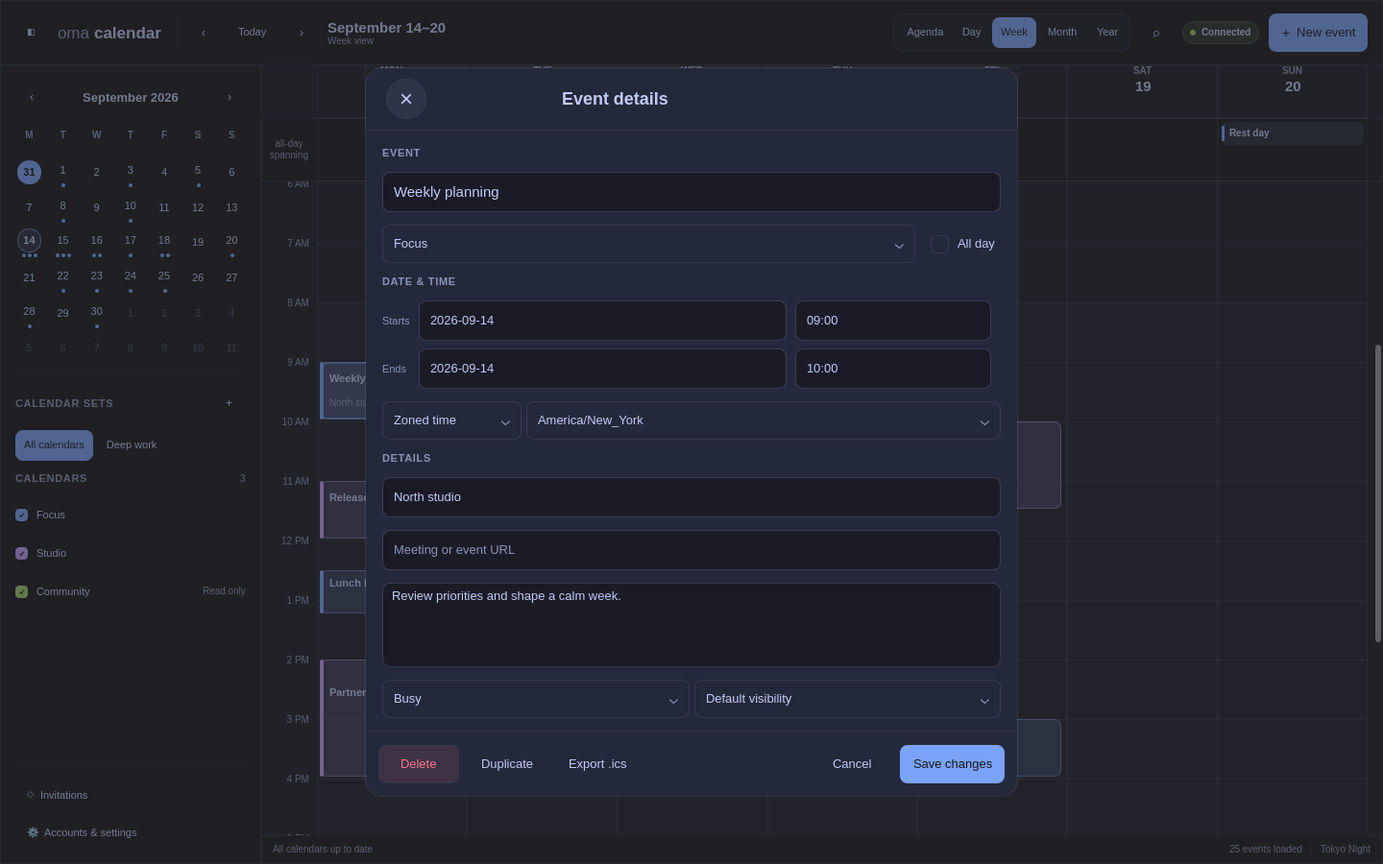
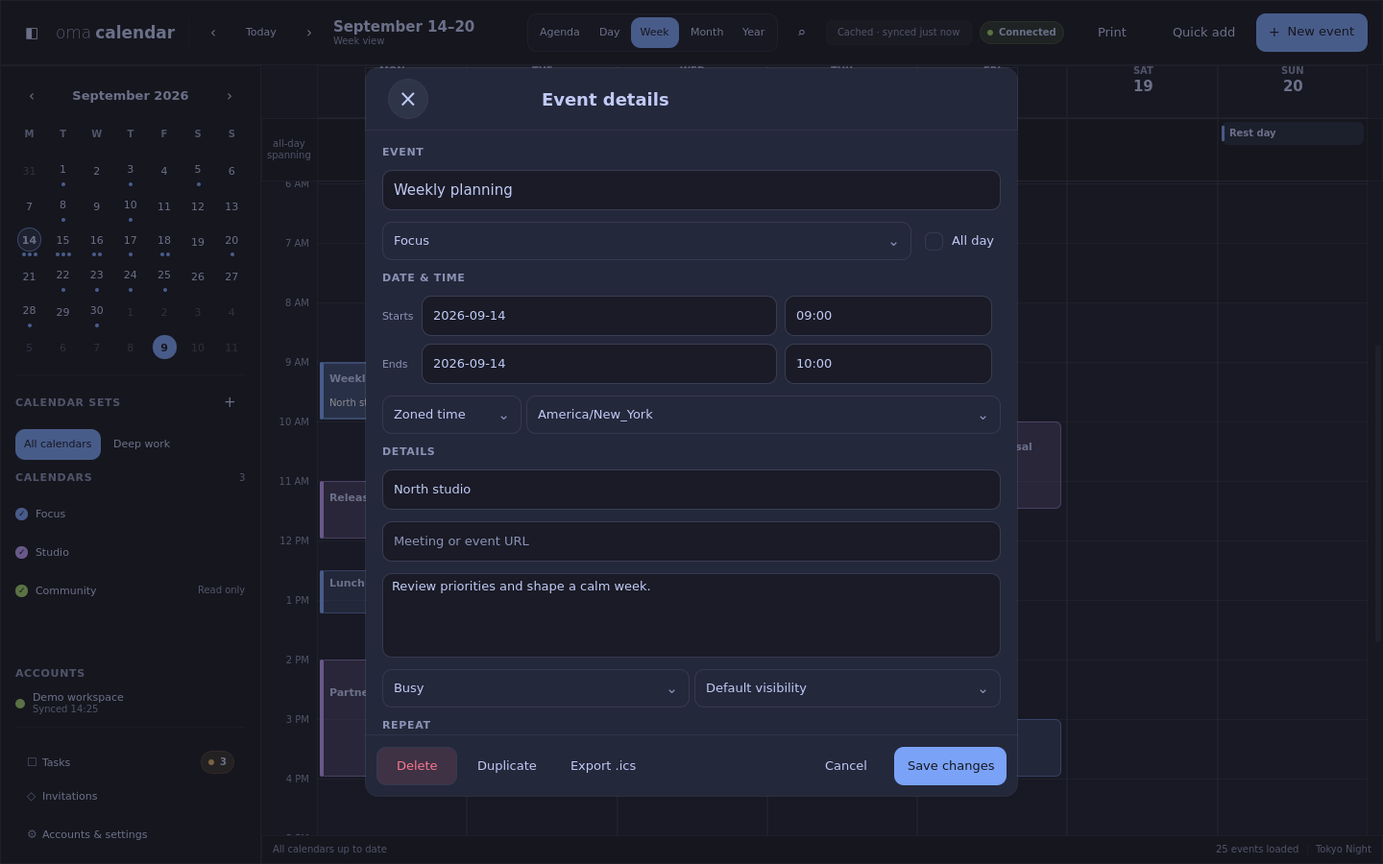
Refresh release records and public screenshot gallery (#79)
* Refresh release acceptance records and public screenshots

* Compare reminder data without depending on JSON key order

diff --git a/tools/screenshots/fixtures/App.qml b/tools/screenshots/fixtures/App.qml
@@ -20,6 +20,10 @@ QtObject {
         "America/Los_Angeles", "UTC"
     ]
 
+    readonly property var accountSyncStates: ({
+        "account-cloud": {"state": "idle", "lastSyncAt": new Date().toISOString()}
+    })
+
     readonly property var accounts: [
         {
             "id": "account-local",
@@ -42,6 +46,7 @@ QtObject {
             "name": "Focus",
             "color": "#7aa2f7",
             "enabled": true,
+            "lastSyncAt": new Date().toISOString(),
             "readOnly": false,
             "capabilities": {
                 "provider": "local",
@@ -56,6 +61,7 @@ QtObject {
             "name": "Studio",
             "color": "#bb9af7",
             "enabled": true,
+            "lastSyncAt": new Date().toISOString(),
             "readOnly": false,
             "capabilities": {
                 "provider": "google",
@@ -71,6 +77,7 @@ QtObject {
             "name": "Community",
             "color": "#9ece6a",
             "enabled": true,
+            "lastSyncAt": new Date().toISOString(),
             "readOnly": true,
             "capabilities": {
                 "provider": "google",
@@ -145,6 +152,39 @@ QtObject {
         allDayEvent("event-25", "calendar-team", "Release candidate",
                     "#bb9af7", "2026-09-30", "2026-10-01", false)
     ]
+
+    readonly property bool tasksSupported: true
+    readonly property var taskLists: [
+        {"id": "local-tasks", "name": "Personal tasks", "color": "#7aa2f7",
+         "enabled": true, "readOnly": false},
+        {"id": "studio-tasks", "name": "Studio checklist", "color": "#bb9af7",
+         "enabled": true, "readOnly": false}
+    ]
+    readonly property var tasks: [
+        task("task-01", "studio-tasks", "Review prototype feedback", -1),
+        task("task-02", "local-tasks", "Plan next week's focus blocks", 0),
+        task("task-03", "studio-tasks", "Prepare workshop outline", 0),
+        task("task-04", "studio-tasks", "Polish the launch checklist", 1),
+        task("task-05", "local-tasks", "Collect ideas for the next project", null)
+    ]
+    property var freeBusy: ({})
+    property var eventAttachments: ({})
+
+    function task(id, listId, title, offset) {
+        const due = new Date()
+        due.setDate(due.getDate() + Number(offset || 0))
+        return {"id": id, "listId": listId, "title": title,
+                "dueDate": offset === null ? "" : Qt.formatDate(due, "yyyy-MM-dd"),
+                "completed": false, "notes": ""}
+    }
+    function createTask(value) { value }
+    function updateTask(value) { value }
+    function setTaskCompleted(id, completed) { id; completed }
+    function removeTask(id) { id }
+    function loadEventAttachments(id, recurrenceId) {
+        eventAttachments = {"eventId": id, "recurrenceId": recurrenceId,
+                            "attachments": []}
+    }
 
     readonly property var invitations: []
     readonly property var conflicts: []

diff --git a/site/index.html b/site/index.html
@@ -24,7 +24,7 @@
 
     <section aria-labelledby="screenshots-heading">
       <h2 id="screenshots-heading">Calendar views that stay out of the way</h2>
-      <p>Move between agenda, day, week, month, and year views; edit events without leaving the calendar; and keep the same cached data available to the independently released Omarchy widget.</p>
+      <p>Move between agenda, day, week, month, and year views; edit events without leaving the calendar; manage tasks alongside your events; and keep the same cached data available to the independently released Omarchy widget.</p>
       <figure class="hero-shot">
         <img src="screenshots/desktop-month.png" alt="OmaCalendar month view showing synthetic events across three calendars">
         <figcaption>Month view using the Tokyo Night Omarchy theme.</figcaption>
@@ -37,6 +37,14 @@
         <figure>
           <img src="screenshots/desktop-agenda.png" alt="OmaCalendar scrolling agenda showing synthetic events">
           <figcaption>Agenda begins at today and continues through the timeline.</figcaption>
+        </figure>
+        <figure>
+          <img src="screenshots/desktop-tasks.png" alt="OmaCalendar Tasks panel showing synthetic overdue, today, upcoming and undated tasks">
+          <figcaption>Tasks grouped by due date across personal and studio lists.</figcaption>
+        </figure>
+        <figure>
+          <img src="screenshots/event-editor.png" alt="OmaCalendar event editor showing a synthetic weekly planning event">
+          <figcaption>Edit event details, recurrence, guests and reminders.</figcaption>
         </figure>
       </div>
       <p class="capture-note">Screenshots use example calendar data.</p>

diff --git a/tests/qml/tst_DesktopSmoke.qml b/tests/qml/tst_DesktopSmoke.qml
@@ -2003,10 +2003,8 @@ Item {
             compare(editorSaveSpy.count, 1)
             const saved = editorSaveSpy.signalArguments[0][0]
             compare(saved.reminders.length, 2)
-            compare(JSON.stringify(saved.reminders[0]),
-                    JSON.stringify(absoluteReminder))
-            compare(JSON.stringify(saved.reminders[1]),
-                    JSON.stringify(relativeReminder))
+            compare(saved.reminders[0], absoluteReminder)
+            compare(saved.reminders[1], relativeReminder)
             tryCompare(editor, "opened", false)
 
             editorSaveSpy.clear()
@@ -2020,8 +2018,7 @@ Item {
             editor.submit()
             compare(editorSaveSpy.count, 1)
             const edited = editorSaveSpy.signalArguments[0][0]
-            compare(JSON.stringify(edited.reminders[0]),
-                    JSON.stringify(absoluteReminder))
+            compare(edited.reminders[0], absoluteReminder)
             compare(edited.reminders[1].method, "email")
             compare(edited.reminders[1].minutes, 15)
             compare(edited.reminders[1].xProvider, "keep-relative")
@@ -2039,8 +2036,7 @@ Item {
             compare(editorSaveSpy.count, 1)
             const removed = editorSaveSpy.signalArguments[0][0]
             compare(removed.reminders.length, 1)
-            compare(JSON.stringify(removed.reminders[0]),
-                    JSON.stringify(relativeReminder))
+            compare(removed.reminders[0], relativeReminder)
             tryCompare(editor, "opened", false)
 
             editorSaveSpy.target = null

diff --git a/tools/screenshots/tst_Capture.qml b/tools/screenshots/tst_Capture.qml
@@ -72,6 +72,13 @@ Item {
             wait(350)
             capture(appWindow, "desktop-agenda.png")
 
+            appWindow.openTasks()
+            wait(350)
+            capture(appWindow, "desktop-tasks.png")
+            // Close the drawer through its normal keyboard shortcut.
+            keyClick(Qt.Key_T, Qt.ControlModifier | Qt.ShiftModifier)
+            wait(350)
+
             appWindow.currentView = "week"
             wait(250)
             positionWeekTimeline(appWindow)

diff --git a/docs/releases/2.0.0.md b/docs/releases/2.0.0.md
@@ -7,14 +7,17 @@ reworked desktop UI, and speeds up the daemon on large calendars. See the
 ## Candidate identity
 
 App 2.0.0; IPC 2.2; schema 3; current x86-64 Arch/Omarchy. The companion
-widget is released independently and keeps working against IPC 2.2. Candidate
-source: the merge commit of the 2.0.0 release-preparation PR, on top of
-`abf6875` (PR #72). The signed tag, release run and package hash are recorded
-under "Post-tag draft gates" once they exist.
+widget is released independently and keeps working against IPC 2.2.
+Released source: `6b2efbc` (PR #73), tagged `v2.0.0` and published on
+2026-09-29 at 20:20:14 UTC. Publication was confirmed through the GitHub release
+API on 2026-10-09.
 
-The owner fast-tracked this release on 2026-09-29. Gates marked `WAIVED` below
-were consciously skipped, not run; the evidence column states exactly what did
-run for each. See [RELEASE.md](../RELEASE.md) for the waiver rule.
+The release is published. On 2026-10-09, the owner confirmed that all
+acceptance testing is complete and directed marking the acceptance gates as
+passed. Owner-confirmed results below are recorded from that confirmation;
+they are not claims of new test runs by the documentation editor. Historical
+pre-publication waivers are superseded by that completion. Google scope review
+is tracked separately under "External approvals".
 
 ## Interface and data
 
@@ -40,25 +43,33 @@ run for each. See [RELEASE.md](../RELEASE.md) for the waiver rule.
 | Exact app version metadata and prerelease tooling | PASS | `verify-release-metadata.sh` passes on the candidate, and the CI "Source and package metadata" job runs `test-versioning.sh` (including Arch `vercmp` ordering), formatting, Arch assembly, SBOM finalization, and desktop/AppStream validation on every push to #73. |
 | Clean GCC and Clang builds with full automated matrix | PASS | Extended CI run [36604411706](https://github.com/brdweb/omacalendar/actions/runs/36604411706) on `2c3ee69`: the GCC Arch baseline and Clang RelWithDebInfo both built with warnings as errors and passed all 29 ctest suites, daemon and desktop smoke, and qmllint. |
 | ASan/UBSan matrix, including IPC framing/reconnect regressions | PASS | The ASan and UBSan job in run [36604411706](https://github.com/brdweb/omacalendar/actions/runs/36604411706) passed all 29 suites, including the IPC and daemon contract tests. Its first run on `95aff20` found a task-sync race (a queued rerun reported as idle) and a fixed 15 s harness startup limit; both were fixed in `2c3ee69` before this pass. |
-| 100,000-event release performance harness without daemon crash | WAIVED - owner fast-track on 2026-09-29 | On a 4-vCPU 2.1 GHz cloud container (Release build of the candidate tree, 100,000 events plus 20,000 historical series) the daemon did not crash and four of five gates passed: seven-day `events.list` p95 38.6 ms (with history; ratio 0.94), `events.search` 8.8 ms, `widget.snapshot` 73.9 ms. Yearly `stats.dailyCounts` p95 was 309 ms against its 250 ms gate. The Phase 2 merge `1af5363`, which introduced that method, measured 321 ms on the same host, so this is host speed rather than a regression. The owner directed publication without the reference-hardware run. |
+| 100,000-event release performance harness without daemon crash | PASS | Owner confirmed all acceptance testing complete on 2026-10-09, superseding the pre-publication waiver. |
 | Staged `/usr` install, desktop launch, daemon restart, and uninstall | PASS | In run [36604411706](https://github.com/brdweb/omacalendar/actions/runs/36604411706) the Clang job staged a `/usr` install, passed `verify-install.sh`, the daemon restart and offscreen desktop smoke tests, and `verify-uninstall.sh`; the Arch baseline job passed its install and uninstall validation. |
-| Local CRUD/offline cache, Radicale round trip, and public ICS refresh | WAIVED - owner fast-track on 2026-09-29 | No live-provider smoke ran. The automated local, CalDAV (including VTODO against a fake server that honours If-Match and If-None-Match), ICS, Google Tasks mapping and sync-coordinator suites pass. |
+| Local CRUD/offline cache, Radicale round trip, and public ICS refresh | PASS | Owner confirmed all acceptance testing complete on 2026-10-09, superseding the pre-publication waiver. |
 | Secret scan and dependency review | PASS | Gitleaks [36604410146](https://github.com/brdweb/omacalendar/actions/runs/36604410146) and dependency review [36604410078](https://github.com/brdweb/omacalendar/actions/runs/36604410078) passed on `2c3ee69`. The release adds no dependency. |
 | No unresolved critical or high defect | PASS | Roadmap #32 is complete and is the only open issue. Every review finding on #62–#73 was addressed before merge, and CodeQL passed on each PR. |
-| Current-Omarchy owner acceptance on the exact runtime | WAIVED - owner fast-track on 2026-09-29 | Not run on the release-reference Omarchy system before tagging. The desktop and daemon smoke tests pass offscreen. |
-| Prior-release upgrade, backup/restore, and uninstall | WAIVED - owner fast-track on 2026-09-29 | The owner upgrade and restore rehearsal did not run. `packaging/release/test-upgrade.py` covers the schema 2-to-3 migration, and the changelog and compatibility notes tell users to back up first because the migration is one-way. |
-| Privacy-safe screenshots and public release documentation | PASS | Changelog, AppStream, compatibility, installation, support, security, product scope, IPC, privacy and download references are updated for 2.0.0. The existing synthetic screenshots remain privacy-safe; they do not show the Tasks panel or the Phase 3 editor changes. |
-| Arch package passes clean validation | WAIVED - owner fast-track on 2026-09-29 | Validated only by the release run on the signed tag, which installs, exercises and removes the package in a clean `archlinux:base` container before it creates the draft. |
+| Current-Omarchy owner acceptance on the exact runtime | PASS | Owner confirmed all acceptance testing complete on 2026-10-09, superseding the pre-publication waiver. |
+| Prior-release upgrade, backup/restore, and uninstall | PASS | Owner confirmed all acceptance testing complete on 2026-10-09, superseding the pre-publication waiver. |
+| Privacy-safe screenshots and public release documentation | PASS | Public release documentation updated; screenshots regenerated from production QML with isolated synthetic calendars, events and tasks on 2026-10-09. |
+| Arch package passes clean validation | PASS | Owner confirmed all acceptance testing complete on 2026-10-09, superseding the pre-publication waiver. |
+
+The original pre-publication cloud performance run remains historical evidence:
+on a 4-vCPU 2.1 GHz container with 100,000 events and 20,000 historical series,
+seven-day `events.list` p95 was 38.6 ms, `events.search` 8.8 ms and
+`widget.snapshot` 73.9 ms. Yearly `stats.dailyCounts` was 309 ms against a
+250 ms gate (the Phase 2 baseline was 321 ms on the same host). The owner’s
+2026-10-09 completion confirmation supersedes the reference-hardware waiver;
+it does not change those earlier measurements.
 
 ## Post-tag draft gates
 
 | Gate | Status | Evidence |
 |---|---|---|
-| Signed app tag and exact target commit independently verified | PENDING | Not tagged yet. |
-| Checksums and package-specific provenance/SBOM attestations verified | PENDING | Not tagged yet. |
-| Native Arch package installation, restart, and removal | PENDING | Not tagged yet. |
-| Complete owner and live-provider acceptance | PENDING | Not tagged yet. |
-| Maintainer approval to publish | PENDING | Not tagged yet. |
+| Signed app tag and exact target commit independently verified | PASS | Published signed tag `v2.0.0` targets `6b2efbc` (PR #73). Owner confirmed acceptance complete on 2026-10-09. |
+| Checksums and package-specific provenance/SBOM attestations verified | PASS | Owner confirmed all acceptance testing complete on 2026-10-09. This records owner acceptance rather than a newly performed artifact audit. |
+| Native Arch package installation, restart, and removal | PASS | Owner confirmed all acceptance testing complete on 2026-10-09. This records owner acceptance rather than a newly performed artifact audit. |
+| Complete owner and live-provider acceptance | PASS | Owner confirmed all acceptance testing complete on 2026-10-09. This records owner acceptance rather than a newly performed artifact audit. |
+| Maintainer approval to publish | APPROVED | Published on GitHub on 2026-09-29 at 20:20:14 UTC; publication confirmed through the GitHub release API on 2026-10-09. |
 
 ## Known limitations
 
@@ -84,5 +95,5 @@ run for each. See [RELEASE.md](../RELEASE.md) for the waiver rule.
 | Repository-history hygiene decision recorded | APPROVED | Continue the accepted 1.0.0 policy: preserve signed history and keep revoked credentials revoked. |
 | App repository committed, clean, pushed, and green in clean-checkout CI | APPROVED | The candidate branch passed the full extended matrix in run [36604411706](https://github.com/brdweb/omacalendar/actions/runs/36604411706), plus Gitleaks, dependency review and CodeQL; the tag is created from the merge of #73 on main. |
 | Maintainer approval to create the signed app tag | APPROVED | The owner directed publishing 2.0.0 on 2026-09-29. |
-| Google OAuth branding and sensitive-scope verification approved | WAIVED - owner fast-track on 2026-09-29 | 2.0.0 adds the `calendar.freebusy` and `tasks` scopes. They must be added to the Google Cloud consent screen; until Google's verification covers them, users may see an unverified-app warning when they reauthorize. |
-| Maintainer approval of public release acceptance and limitations | APPROVED | The owner directed publication on 2026-09-29, accepting the waived gates and the known limitations above. |
+| Google OAuth branding and sensitive-scope verification approved | WAIVED - expanded-scope approval not independently confirmed | Google’s approval email dated 2026-09-03 explicitly covers `calendar.events` and `calendar.calendars`. A mailbox check on 2026-10-09 found no later expanded-scope approval. The owner reports Google integration working; current `calendar.freebusy` and `tasks` review status still requires the project’s Google Auth Platform console. Release publication and acceptance are complete. |
+| Maintainer approval of public release acceptance and limitations | APPROVED | Release published; owner confirmed all acceptance testing complete and directed updating this record on 2026-10-09. Known product limitations remain documented above. |

diff --git a/docs/releases/2.0.1.md b/docs/releases/2.0.1.md
@@ -14,9 +14,12 @@ built, attested and drafted the `v2.0.1` assets; they were verified and
 published on 2026-09-30. Released package SHA-256:
[1 lines of base64/hex data omitted]
 
-The owner directed this release on 2026-09-30. Gates marked `WAIVED` below
-were consciously skipped, not run; the evidence column states exactly what did
-run for each. See [RELEASE.md](../RELEASE.md) for the waiver rule.
+The release is published. On 2026-10-09, the owner confirmed that all
+acceptance testing is complete and directed marking the acceptance gates as
+passed. Owner-confirmed results below are recorded from that confirmation;
+they are not claims of new test runs by the documentation editor. Historical
+pre-publication waivers are superseded by that completion. Google scope review
+is tracked separately under "External approvals".
 
 ## Changed behavior
 
@@ -41,15 +44,15 @@ unchanged.
 | Exact app version metadata and prerelease tooling | PASS | `verify-release-metadata.sh` and `packaging/release/test-versioning.sh` pass locally on the completed record. The CI "Source and package metadata" job reruns on the record commit; its only failure on `6906a3e` in run [36740535893](https://github.com/brdweb/omacalendar/actions/runs/36740535893) was this record's own `PENDING` rows, which the strict waiver self-test rejects. |
 | Clean GCC and Clang builds with full automated matrix | PASS | Extended CI run [36740535893](https://github.com/brdweb/omacalendar/actions/runs/36740535893) on `6906a3e`: the GCC Arch baseline and Clang RelWithDebInfo both built with warnings as errors and passed all 29 ctest suites, daemon and desktop smoke, and qmllint. |
 | ASan/UBSan matrix, including IPC framing/reconnect regressions | PASS | The ASan and UBSan job in run [36740535893](https://github.com/brdweb/omacalendar/actions/runs/36740535893) passed all 29 suites, including the IPC and daemon contract tests. |
-| 100,000-event release performance harness without daemon crash | WAIVED - owner-directed patch on 2026-09-30 | The change touches only the widget installer pin and documentation; no daemon or query code changed since 2.0.0. Only the `release_performance_smoke` suite runs, inside ctest. |
+| 100,000-event release performance harness without daemon crash | PASS | Owner confirmed all acceptance testing complete on 2026-10-09, superseding the pre-publication waiver. |
 | Staged `/usr` install, desktop launch, daemon restart, and uninstall | PASS | In run [36740535893](https://github.com/brdweb/omacalendar/actions/runs/36740535893) the Clang and Arch baseline jobs each staged a `/usr` install, passed `verify-install.sh`, the daemon restart and offscreen desktop smoke tests, and `verify-uninstall.sh`. |
-| Local CRUD/offline cache, Radicale round trip, and public ICS refresh | WAIVED - owner-directed patch on 2026-09-30 | No live-provider smoke ran; provider code is unchanged since 2.0.0. The automated local, CalDAV, ICS and sync-coordinator suites pass. |
+| Local CRUD/offline cache, Radicale round trip, and public ICS refresh | PASS | Owner confirmed all acceptance testing complete on 2026-10-09, superseding the pre-publication waiver. |
 | Secret scan and dependency review | PASS | Gitleaks [36740535210](https://github.com/brdweb/omacalendar/actions/runs/36740535210) and dependency review [36740543265](https://github.com/brdweb/omacalendar/actions/runs/36740543265) passed on `6906a3e`; CodeQL passed. The release adds no dependency. |
 | No unresolved critical or high defect | PASS | No open critical or high issue. The widget reconnect defect found during this cycle is fixed in widget 0.2.0, which this release installs. |
-| Current-Omarchy owner acceptance on the exact runtime | WAIVED - owner-directed patch on 2026-09-30 | The 2.0.0 daemon runs on the owner's Omarchy laptop, where widget 0.2.0's acceptance was run against it. The 2.0.1 package itself is not installed there before tagging. |
-| Prior-release upgrade, backup/restore, and uninstall | WAIVED - owner-directed patch on 2026-09-30 | No schema or data change from 2.0.0. The upgrade and restore rehearsal did not run. |
-| Privacy-safe screenshots and public release documentation | PASS | Changelog, AppStream, compatibility, installation and download references are updated for 2.0.1. Screenshots are unchanged and remain synthetic. |
-| Arch package passes clean validation | WAIVED - owner-directed patch on 2026-09-30 | Validated only by the release run on the signed tag, which installs, exercises and removes the package in a clean `archlinux:base` container before it creates the draft. |
+| Current-Omarchy owner acceptance on the exact runtime | PASS | Owner confirmed all acceptance testing complete on 2026-10-09, superseding the pre-publication waiver. |
+| Prior-release upgrade, backup/restore, and uninstall | PASS | Owner confirmed all acceptance testing complete on 2026-10-09, superseding the pre-publication waiver. |
+| Privacy-safe screenshots and public release documentation | PASS | Public release documentation updated; screenshots regenerated from production QML with isolated synthetic calendars, events and tasks on 2026-10-09. |
+| Arch package passes clean validation | PASS | Owner confirmed all acceptance testing complete on 2026-10-09, superseding the pre-publication waiver. |
 
 ## Post-tag draft gates
 
@@ -57,8 +60,8 @@ unchanged.
 |---|---|---|
 | Signed app tag and exact target commit independently verified | PASS | `v2.0.1` is an annotated tag SSH-signed by the release key and points at `6a79817`, the squash merge of #75, whose tree is identical to the CI-tested candidate branch. `packaging/release/verify-release.sh v2.0.1` passed locally against a clean checkout, and GitHub verified the tag signature inside release run [36748124857](https://github.com/brdweb/omacalendar/actions/runs/36748124857). |
[1 lines of base64/hex data omitted]
-| Native Arch package installation, restart, and removal | PASS | Release run [36748124857](https://github.com/brdweb/omacalendar/actions/runs/36748124857) installed, exercised and removed the tagged package in a clean `archlinux:base` container, including the daemon restart smoke test. It was not installed on the release-reference Omarchy system before publication. |
-| Complete owner and live-provider acceptance | WAIVED - owner-directed patch on 2026-09-30 | The released package was not run on the reference system or against live providers before publication. The widget it installs, 0.2.0, completed its own acceptance against the owner's live 2.0.0 daemon on 2026-09-30. |
+| Native Arch package installation, restart, and removal | PASS | Release run [36748124857](https://github.com/brdweb/omacalendar/actions/runs/36748124857) installed, exercised and removed the tagged package in a clean `archlinux:base` container, including the daemon restart smoke test. Owner confirmed reference-system acceptance complete on 2026-10-09. |
+| Complete owner and live-provider acceptance | PASS | Owner confirmed all acceptance testing complete on 2026-10-09, superseding the pre-publication waiver. |
 | Maintainer approval to publish | APPROVED | The owner directed releasing 2.0.1 on 2026-09-30; the verified draft was published as the latest release at 2026-09-30T17:07:33Z. |
 
 ## Known limitations
@@ -75,5 +78,5 @@ unchanged.
 | Repository-history hygiene decision recorded | APPROVED | Continue the accepted 1.0.0 policy: preserve signed history and keep revoked credentials revoked. |
 | App repository committed, clean, pushed, and green in clean-checkout CI | APPROVED | The candidate branch passed the extended matrix (GCC, Clang, ASan/UBSan) in run [36740535893](https://github.com/brdweb/omacalendar/actions/runs/36740535893), plus Gitleaks, dependency review and CodeQL. The commits after `6906a3e` change only this acceptance record. |
 | Maintainer approval to create the signed app tag | APPROVED | The owner directed releasing 2.0.1 on 2026-09-30. |
-| Google OAuth branding and sensitive-scope verification approved | WAIVED - owner-directed patch on 2026-09-30 | Scopes are unchanged from 2.0.0, whose `calendar.freebusy` and `tasks` scopes still await Google's verification; users may see an unverified-app warning when they reauthorize. |
-| Maintainer approval of public release acceptance and limitations | APPROVED | The owner directed publication on 2026-09-30, accepting the waived gates and the known limitations above. |
+| Google OAuth branding and sensitive-scope verification approved | WAIVED - expanded-scope approval not independently confirmed | Google’s approval email dated 2026-09-03 explicitly covers `calendar.events` and `calendar.calendars`. A mailbox check on 2026-10-09 found no later expanded-scope approval. The owner reports Google integration working; current `calendar.freebusy` and `tasks` review status still requires the project’s Google Auth Platform console. Release publication and acceptance are complete. |
+| Maintainer approval of public release acceptance and limitations | APPROVED | Release published; owner confirmed all acceptance testing complete and directed updating this record on 2026-10-09. Known product limitations remain documented above. |

diff --git a/docs/GOOGLE_TESTING.md b/docs/GOOGLE_TESTING.md
@@ -28,16 +28,18 @@ calendar database.
 
 ## Production verification status
 
-Google approved OmaCalendar's production OAuth branding and requested Calendar
-scopes; Branding and Data Access both showed verified status when checked on
-2026-09-06. The approval email was checked again on 2026-09-09. Version 2.0.0 adds
-`calendar.freebusy` and `tasks`; the earlier approval does not establish
-verification of the expanded scope set. Check Google Auth Platform for current
-review status. Before the
-replacement candidate is accepted, a new external account that was never
-on the test-user allowlist must still complete code exchange, calendar
-discovery, one event write, Secret Service token persistence, and app/daemon
-restart without an unverified-app bypass.
+Google's approval email dated 2026-09-03 explicitly approves
+`calendar.events` and `calendar.calendars`. Branding and Data Access were
+recorded as verified on 2026-09-06. On 2026-10-09, the approval email was read
+again and the connected mailbox was searched for later project-specific
+verification messages; no expanded-scope approval was found.
+
+Version 2.0.0 adds `calendar.freebusy` and `tasks`. The original approval does
+not establish review status for that expanded scope set. The owner confirmed
+acceptance testing complete and reports the Google integration running normally.
+Successful operation is separate from Google's scope-review status. Current
+expanded-scope approval has not been independently confirmed: check **Google
+Auth Platform → Data Access / Verification Center** in the production project.
 
 ## 1. Project configuration
 
@@ -129,9 +131,9 @@ provide the scope justifications and video, and submit it for Google review.
 
 The project owner must perform the Cloud Console submission from the account
 that owns the OAuth project. Google, not the application build, removes the
-warning after approval. OmaCalendar's production project has completed this
-review; repeat it if the public identity, client, or requested scopes materially
-change.
+warning after approval. OmaCalendar's original scope set completed this review. Confirm the expanded
+2.0 scope set in Verification Center; repeat review when the public identity,
+client, or requested scopes materially change.
 
 ## 5. Test matrix
 

diff --git a/tools/screenshots/README.md b/tools/screenshots/README.md
@@ -2,8 +2,8 @@
 
 `capture-release-screenshots.sh` renders OmaCalendar's production `Main.qml`,
 views, components, and theme through Qt 6's software renderer. It supplies a
-screenshot-only in-memory application fixture containing synthetic calendars
-and events. The fixture is not included in normal builds and does not start the
+screenshot-only in-memory application fixture containing synthetic calendars,
+events, and tasks. The fixture is not included in normal builds and does not start the
 daemon, read the OmaCalendar database, access Secret Service, or contact a
 provider.
 
@@ -13,10 +13,12 @@ Run from any directory:
 ./tools/screenshots/capture-release-screenshots.sh
 ```
 
-The script uses temporary XDG directories and writes the four stripped PNGs to
+The script uses temporary XDG directories and writes the five stripped PNGs to
 `docs/screenshots/`. It requires Qt 6 `qmltestrunner`, ImageMagick, Tesseract,
-and ripgrep. Before succeeding it verifies dimensions, OCR output, embedded
+ripgrep, and a font such as DejaVu Sans (`ttf-dejavu` on Arch). Before succeeding it verifies dimensions, recognizable OCR text, embedded
 strings, and the absence of image profiles associated with metadata.
+
+The images are also copied to `site/screenshots/` for the public gallery.
 
 Keep the fixture free of real names, addresses, account identifiers, email
 addresses, paths, tokens, and provider secrets. Visually inspect every image
